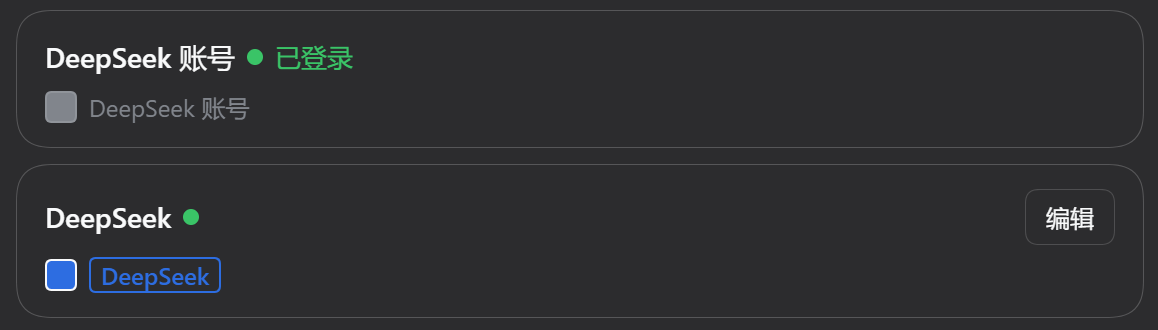
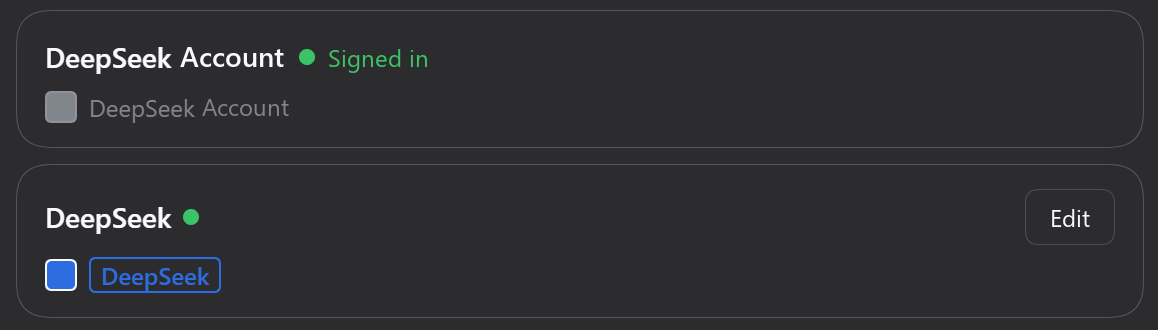
Localise the provider-card screenshot for each README language
The example image was Chinese-only. Each language now gets its own file, all
painted from the same original: English keeps the default
docs/provider-colors.png, with provider-colors.zh-CN.png, .ja.png and .ko.png
beside it, and every README plus docs/DETAIL.md points at its own.

Only the four Chinese text runs are repainted (the account name in the title
and under the swatch, the sign-in status, the edit label); the DeepSeek brand
stays Latin in all four, and the swatches, blue chip, status dot and card
frames are untouched.

Changed region(s): [[0.1554, 0.1212, 0.3731, 0.2121], [0.1554, 0.2727, 0.2487, 0.3636], [0.9016, 0.6061, 0.9637, 0.697]]

diff --git a/README.ja.md b/README.ja.md
@@ -19,7 +19,7 @@ DeepSeek Harness の入力欄のモデル位置に、モデル名より前にプ
 
 ## 表示例
 
-![各プロバイダーカードの色スウォッチとライブプレビュー](docs/provider-colors.png)
+![各プロバイダーカードの色スウォッチとライブプレビュー](docs/provider-colors.ja.png)
 
 **設定 → モデル** の各プロバイダーカードには、色スウォッチが 1 つと、入力欄が描画する名前のプレビューが
 あります。DeepSeek アカウントの行は既定のグレー文字のまま、DeepSeek API の経路は選んだ色の枠線チップで

diff --git a/README.zh-CN.md b/README.zh-CN.md
@@ -17,7 +17,7 @@
 
 ## 它长什么样
 
-![每张供应商卡片上一枚颜色图标和一份实时预览](docs/provider-colors.png)
+![每张供应商卡片上一枚颜色图标和一份实时预览](docs/provider-colors.zh-CN.png)
 
 **设置 → 模型** 里每张供应商卡片都带一枚颜色图标，以及输入框将会画出的名字预览：DeepSeek 账号那行
 保持默认的灰字，而 DeepSeek API 路由显示为它所选颜色的描边标签。

diff --git a/docs/DETAIL.md b/docs/DETAIL.md
@@ -35,7 +35,7 @@
 
 ## 配置
 
-![供应商卡片上的颜色入口与预览](provider-colors.png)
+![供应商卡片上的颜色入口与预览](provider-colors.zh-CN.png)
 
 **设置 → 模型**，两处，都保存在浏览器本地：
 
